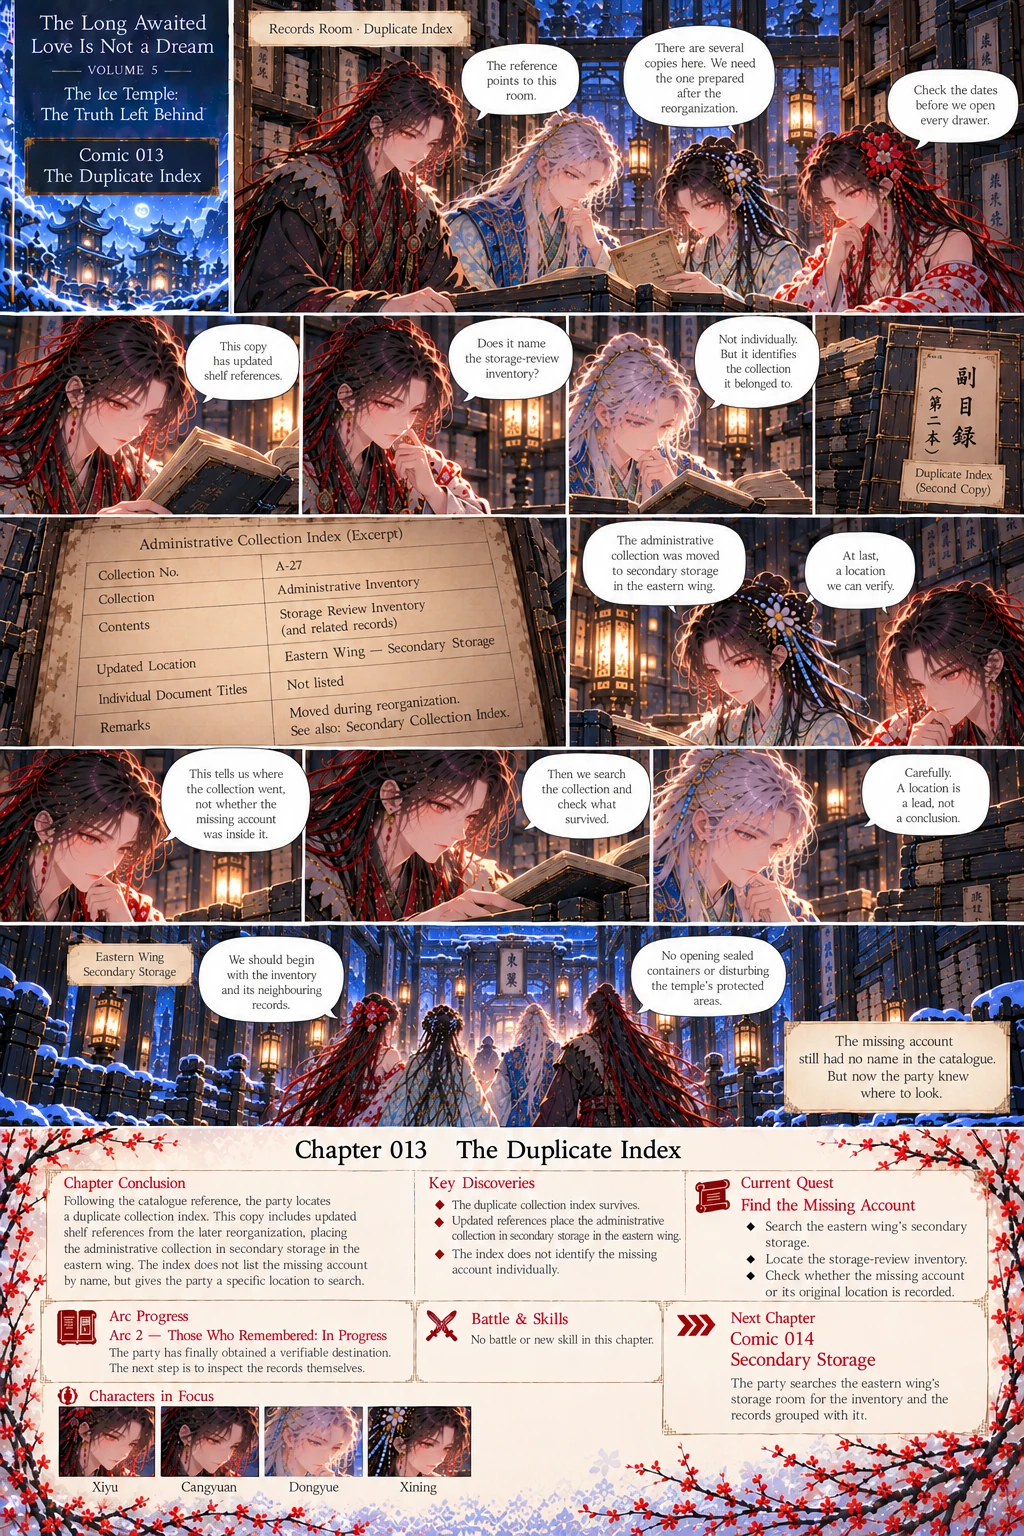
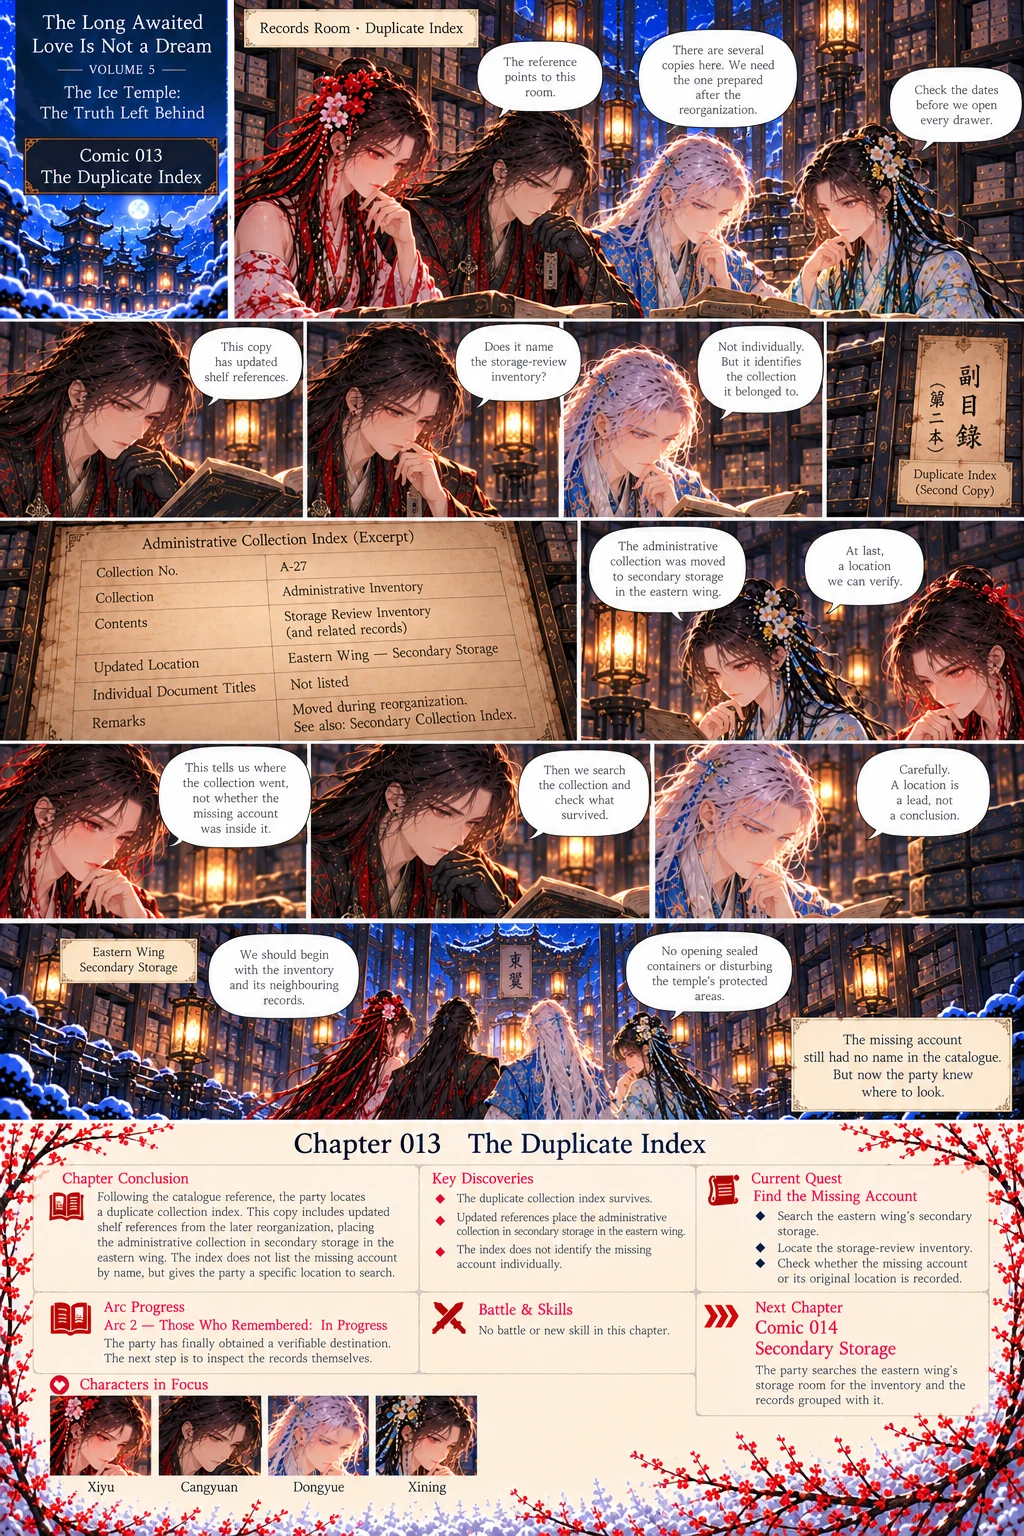
Volume 5: install re-supplied pages 013 and 016
Claude-Session: https://claude.ai/code/session_01XEYzSJa6dBuS74MycM45Hs

diff --git a/docs/VOLUME2.md b/docs/VOLUME2.md
@@ -215,3 +215,5 @@ Two Wilds zones open at chapter 117, for a party staying in the Ice Temple:
 - **Volume 5 cover installed** (`assets/volume5_cover.webp`, splash on completing chapter 193, kept in Cast). Tagline: "Four travelers. One journey. Countless secrets." / "Hidden in the past, the truth stirs again."
 - **Volume 4 comic 052 re-supplied** (new layout with Year 463 / Year 472 captions) and installed.
 - **016 and 013 re-sent unchanged** (still "Raim:" and "itr"); not reinstalled. **019 re-sent is the OLDER version** (says "Li Wen", conclusion text clean, OR-37 correct); NOT installed, so the installed 019 (Su Chengyuan, but with "OR-3T" and a garbled conclusion tail) stays. Regenerate 019 with the name Su Chengyuan and OR-37 together.
+
+- **013 and 016 re-supplied and installed:** 013's "itr" is now "it"; 016's "Raim:" is now "Remark:" (the remark field is blank). Text matches the game. 019 (the "Su Chengyuan" version with the Outer Realm entry) was NOT installed: it conflicts with 018 and 020 (see above); the earlier 019 stays.
